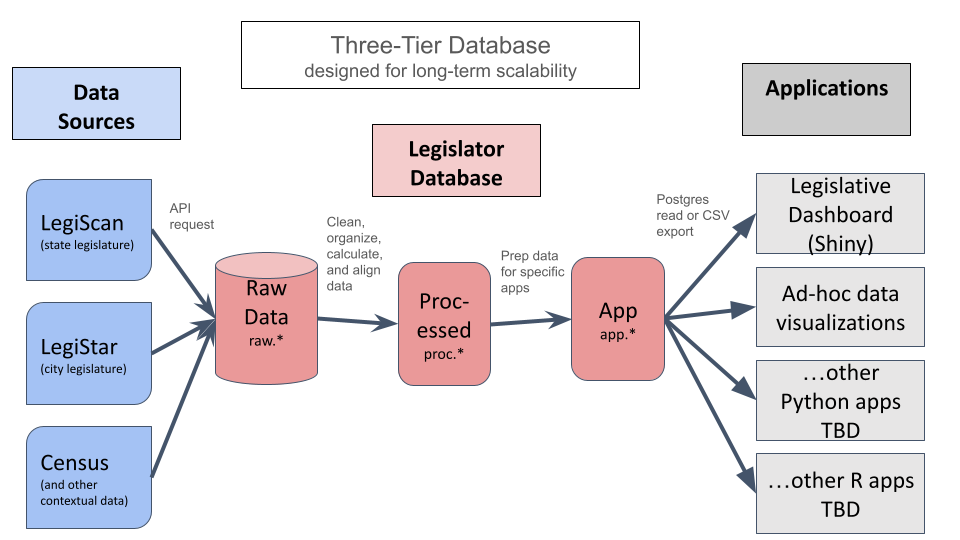
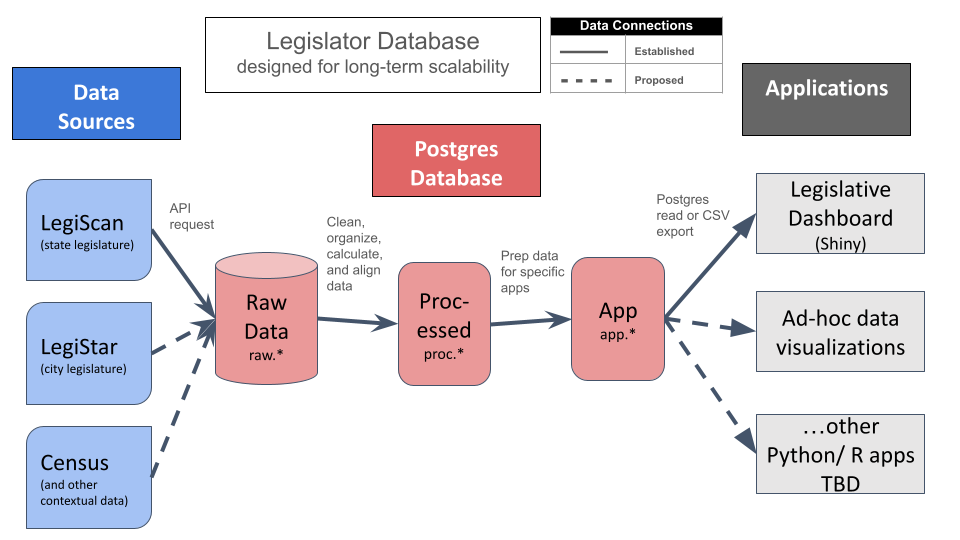
update readme

diff --git a/README.md b/README.md
@@ -1,6 +1,6 @@
 # Florida Legislative Voting Database
 6/27/24
- This repo creates a data pipeline supporting the [Jacksonville Tributary's](https://jaxtrib.org/) legislative voting dashboard ([see prior version](https://shiny.jaxtrib.org/)). The ETL scripts are adapted from an [R script originally created by apantazi](https://github.com/apantazi/legislator_dashboard/blob/main/pull-in-process-all-legiscan.R). My intent is to make it easier for others to maintain/develop the app, quickly adapt it to different jurisdictions, and create new apps from the same processed data using any programming language.
+ This repo creates a data pipeline supporting the [Jacksonville Tributary's](https://jaxtrib.org/) legislative voting dashboard (see [prior version of demo app](https://shiny.jaxtrib.org/)). The ETL scripts are adapted from an [R script originally created by apantazi](https://github.com/apantazi/legislator_dashboard/blob/main/pull-in-process-all-legiscan.R). My intent is to make it easier for others to maintain/develop the app, quickly adapt it to different jurisdictions, and create new apps from the same processed data using any programming language.
  
  Part of this work has involved reshaping nested lists (from API-acquired JSONs) into relational database format, which enables storage in Postgres as well as easy export to csv or (theoretically) SQLite. The Postgres database is currently managed locally on my Windows machine, with intent to deploy to the Tributary's Azure platform.
 
@@ -22,7 +22,33 @@ ETL in the context of the legislative dashboard database means:
 * **Transform** data by cleaning, organizing, calculating, and aligning data so it's more useful and easier to understand
 * **Load** the transformed data into the Postgres database
 
- ## Running the ETL Script
+
+
+<br><br>
+## Naming Conventions
+Clear and consistent naming conventions are essential to code maintainability. Following are naming conventions used within this data pipline. Following are naming conventions for dataframes in the R script.
+
+|Prefix|Saved in<br>Schema|Purpose|
+|---|---|---|
+|t_|raw|**T**ables of raw data kept intact in their original source format.|
+|calc_|Performs intermediate **calc**ulations (e.g., partisanship metrics).|---|
+|p_|proc|**P**rocessed data, which has been cleaned and organized from original tables. This includes newly introduced calculated fields.|
+|app_|app|**App**lication data, which has been filtered and organized from processed data. It's intended to support specific web applications but could also support data visualizations.|
+
+
+
+<br><br>
+## Data Dictionaries by Schema (work in progress)
+The following data dictionaries describe all data elements in each database table. This is intended to help ETL developers align new data sources to a common data model, and help app developers understand the data elements they can use.
+
+* [raw_legiscan](diagrams/data-dictionary-raw-legiscan.xlsx)
+* proc
+* app_voting_patterns
+
+
+
+<br><br>
+## Running the ETL Script
 The following instructions describe the process of running the ETL scripts. If it's useful, I may develop a simple SQLite and/or folder-of-csvs exports to facilitate app development without relying on our Postgres database.
 
 To run these scripts, you'll need to know two passwords:
@@ -50,6 +76,13 @@ To run these scripts, you'll need to know two passwords:
 | [00_install_packages.R](scripts/00_install_packages.R)|installation script which should later be repackaged as requirements |
 | [functions_database.R](scripts/functions_database.R)|scripts to connect to Postgres, write tables, and test inputs |
 
+
+
+<br><br>
 ## Development workplan
-* Incorporate voting data for cities (e.g. Legistar data) and district data for context (e.g. Census data) 
-* Develop automated CSV and SQLite exports to support non-Postgres data access options
+Following are some key goals for developing this data pipeline.
+* Incorporate LegiStar voting data for Jacksonville and align this with state data, so it can be visualized with existing web apps
+* Incorporate district data (e.g. census demographics and partisan leanings of the electorate) to provide context
+* Develop automated CSV and SQLite exports to support non-Postgres access for data visualization and web app development
+* Automate API requests via Github actions to keep legislative voting data up-to-date
+* Deploy Postgres app on Azure to enable online connectivity
